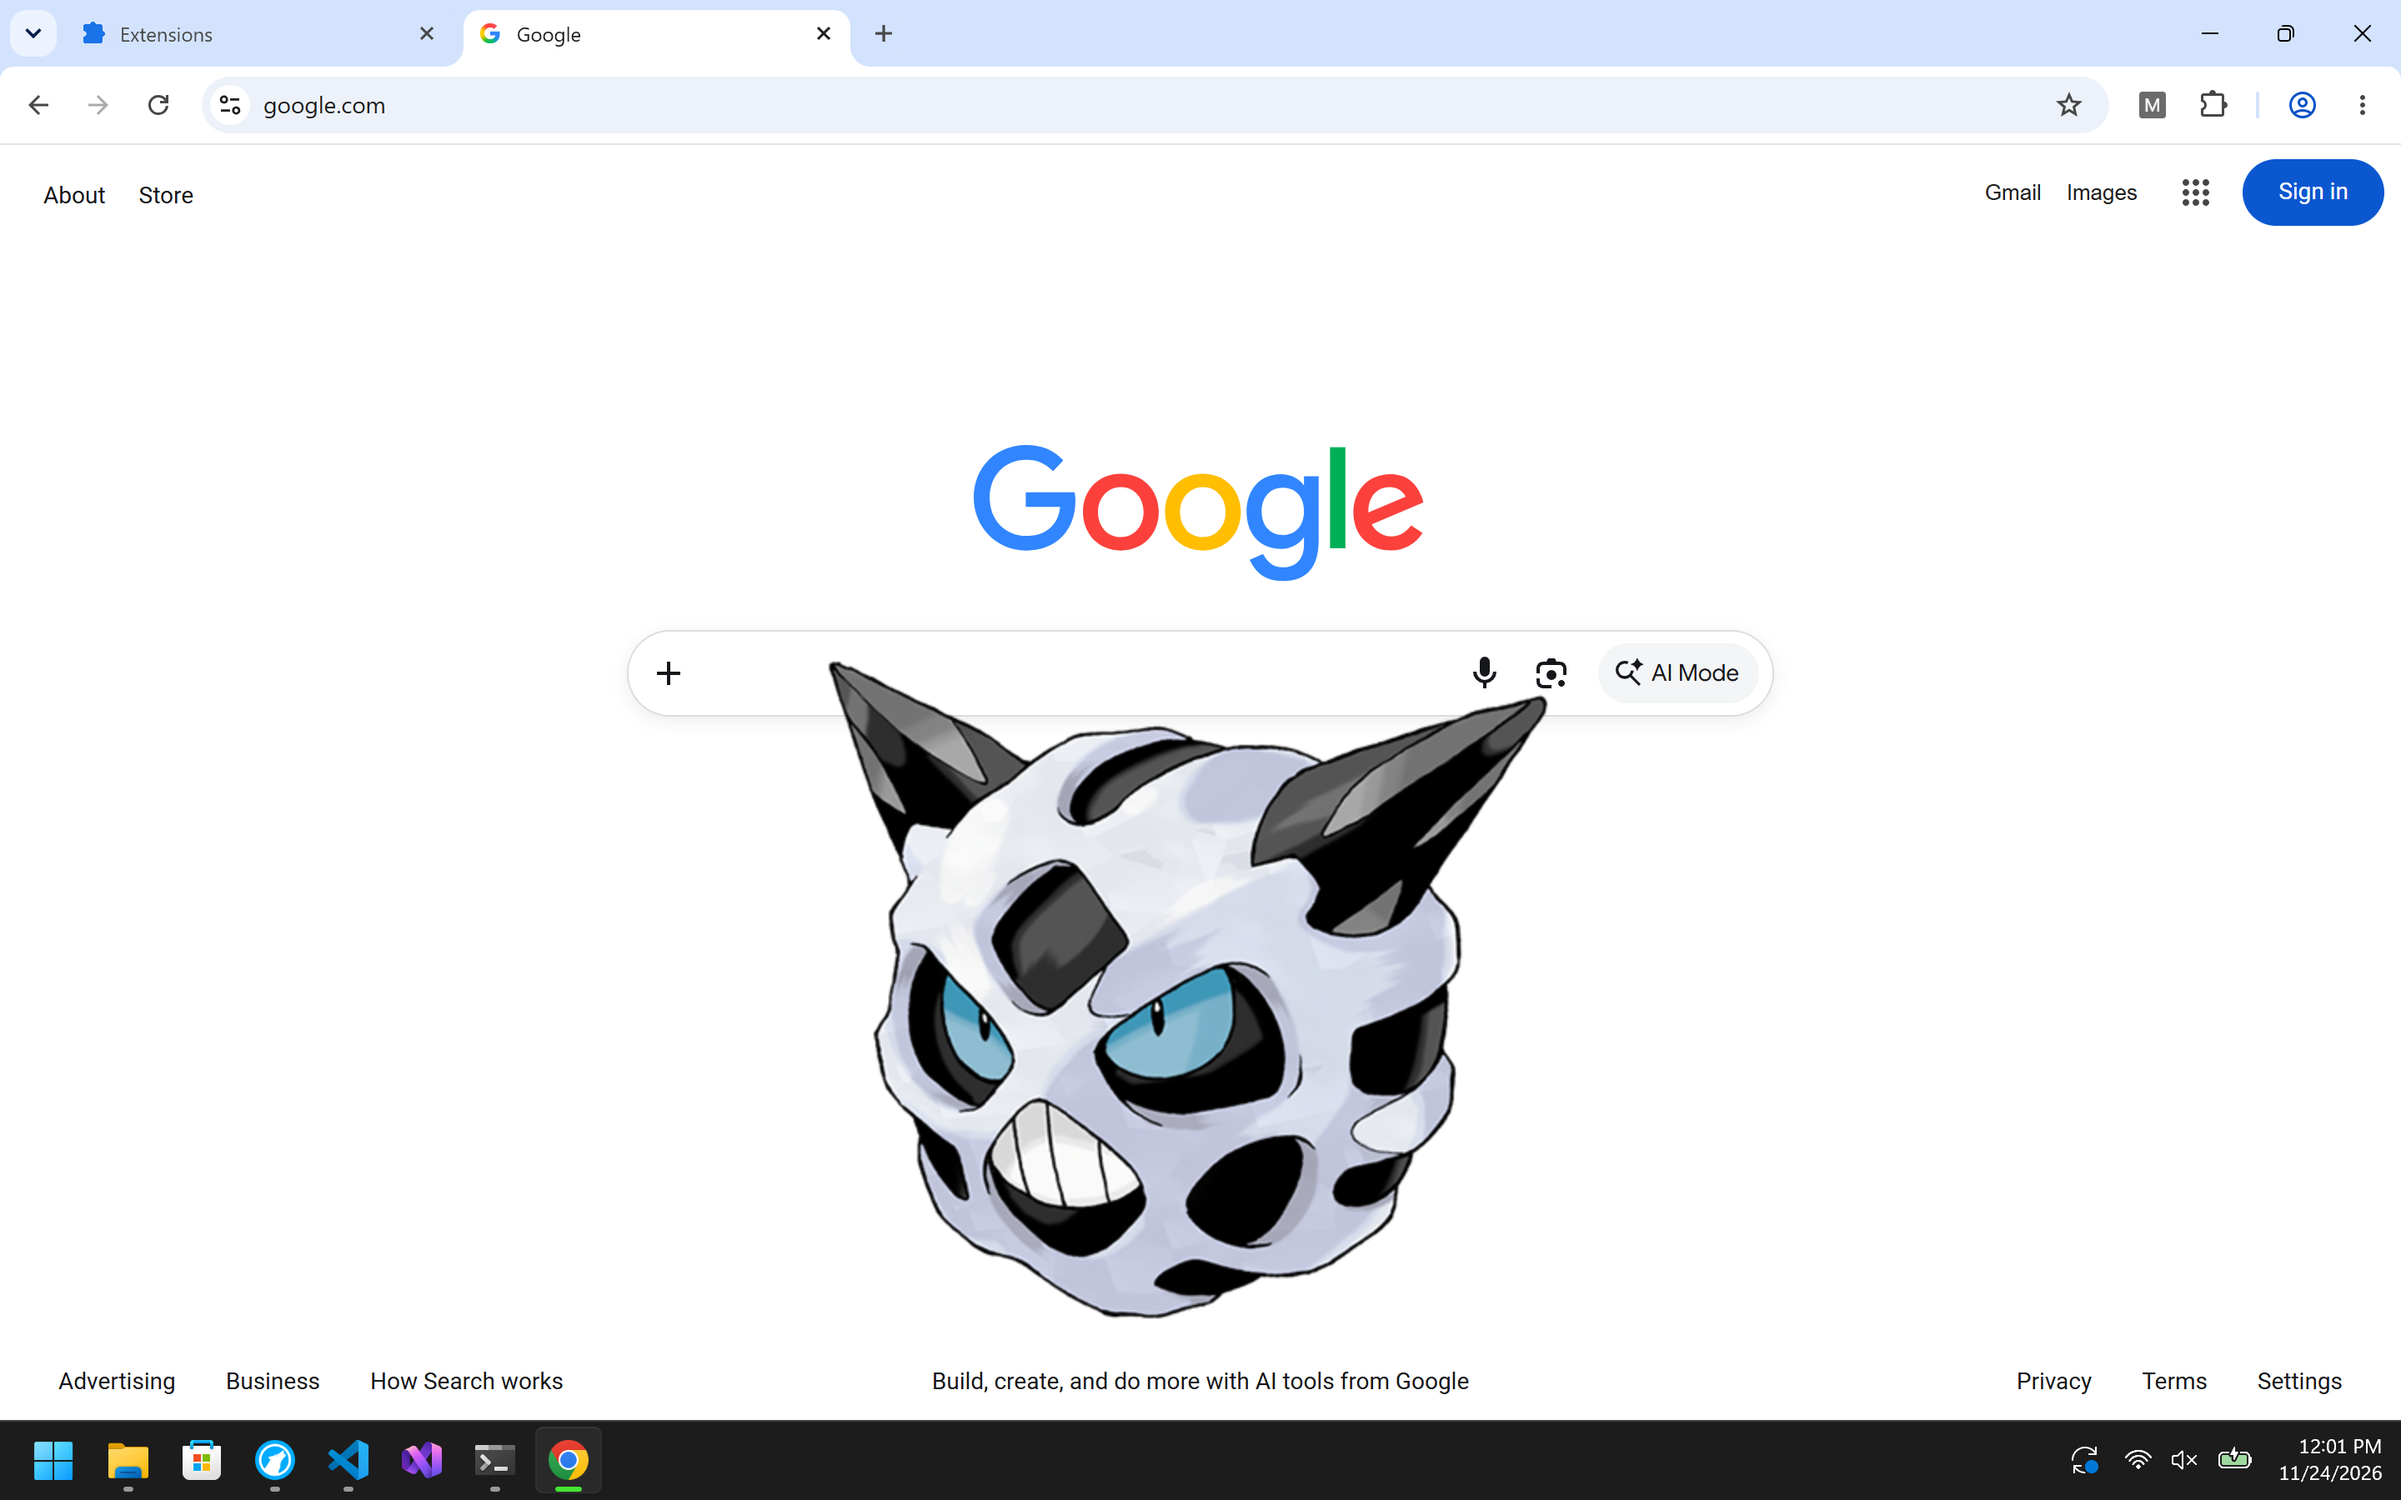
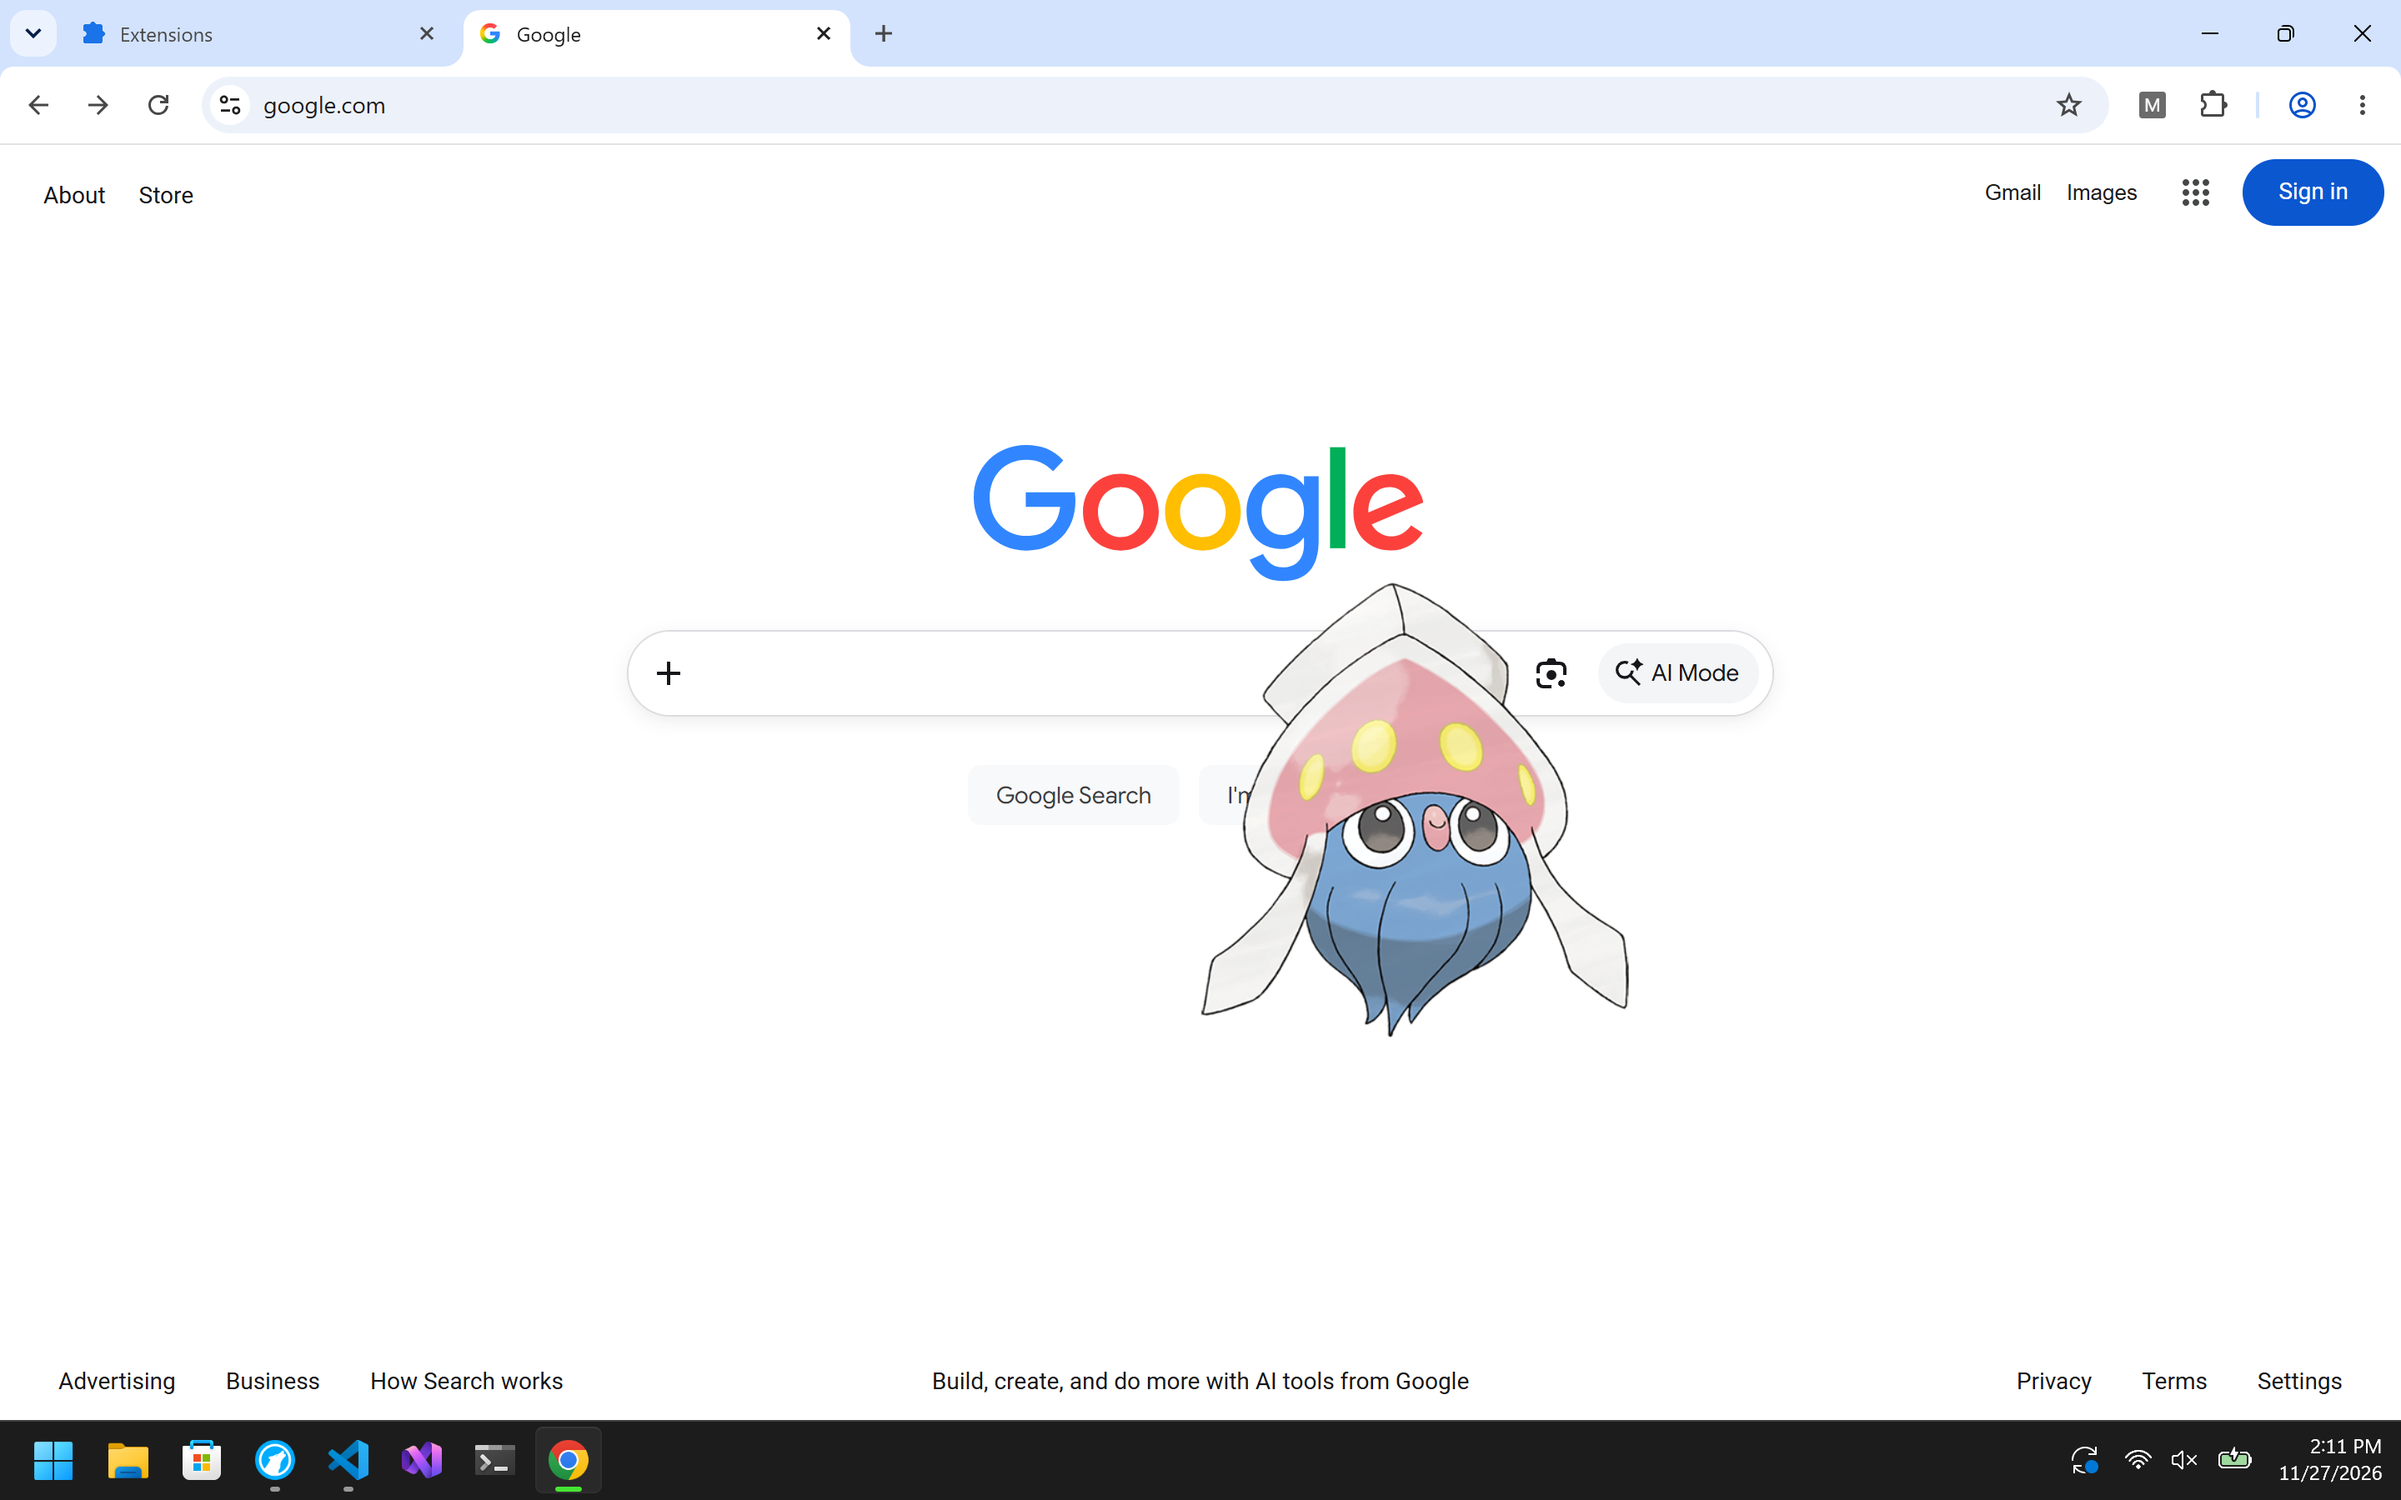
Updated documentation; teleport images

Changed region(s): [[0.3438, 0.4044, 0.6562, 0.9022]]

diff --git a/src/content-script.js b/src/content-script.js
@@ -8,6 +8,14 @@ async function getConfig(property) {
   return CONFIG[property];
 }
 
+// Teleports the image to a random location
+function teleportImage(img) {
+  let maxLeft = window.innerWidth - img.width;
+  img.style.left = `${Math.floor(Math.random() * maxLeft)}px`;
+  let maxTop = window.innerHeight - img.height;
+  img.style.top = `${Math.floor(Math.random() * maxTop)}px`;
+}
+
 async function spawnImage(src, term) {
   const image = document.createElement('img');
   image.src = src;
@@ -19,21 +27,22 @@ async function spawnImage(src, term) {
 
   image.onload = function() {
     // Wait for the image to load so we can find its dimensions
-
-    let maxLeft = window.innerWidth - this.naturalWidth;
-    this.style.left = `${Math.floor(Math.random() * maxLeft)}px`;
-    let maxTop = window.innerHeight - this.naturalHeight;
-    this.style.top = `${Math.floor(Math.random() * maxTop)}px`;
-
+    image.width = 300;
+    teleportImage(this);
     document.body.append(this);
   }
 
-  // CONFIG.IMAGE_DURATION is in seconds; we must convert it to milliseonds  
+  // CONFIG.IMAGE_DURATION is in seconds; we must convert it to milliseconds  
   let duration = await getConfig("IMAGE_DURATION") * 1000;
   const timeoutId = setTimeout(() => image.remove(), duration);
 
+  // Teleports the image to a random location
+  let numTeleports = await getConfig("NUM_TELEPORTS");
+  const intervalId = setInterval(teleportImage, duration / numTeleports, image);
+
   image.addEventListener("click", function() {
     clearTimeout(timeoutId);
+    clearInterval(intervalId);
     image.remove();
     buildForm(image, term);
   });

diff --git a/src/popup/popup.js b/src/popup/popup.js
@@ -38,6 +38,7 @@ function switchCollection(event) {
     type: 'switch-collection',
     collection: event.target.value
   })
+  curr = undefined;
   displayStats();
 }
 document.getElementById("collection-select").addEventListener("change", switchCollection)

diff --git a/src/form/form.css b/src/form/form.css
@@ -1,5 +1,5 @@
 #memorize-em-all {
-  width: 400px;
+  width: 300px;
   display: flex;
   gap: 10px;
   flex-direction: column;

diff --git a/README.md b/README.md
@@ -19,7 +19,7 @@ This extension takes a dataset of images and words corresponding with them (eith
 
   Chrome Extensions API (https://developer.chrome.com/docs/extensions/reference/api)
   
-  REST Countries API (https://restcountries.com)
+  countries.dev API (https://countries.dev/)
   
   PokéAPI (https://pokeapi.co/)
 
@@ -53,12 +53,12 @@ Create `config.json` in the `src` directory with
     "POKEMON",
     "COUNTRY_FLAGS"
   ],
-  "REST_COUNTRIES_API_KEY": <your_api_key>,
   "MIN_DELAY": 15,
   "MAX_DELAY": 20,
-  "IMAGE_DURATION": 10,
+  "IMAGE_DURATION": 5,
+  "NUM_TELEPORTS": 5,
   "FORM_DURATION": 5,
-  "DEFAULT_COLLECTION": "POKEMON",
+  "DEFAULT_COLLECTION": "POKEMON"
 }
 ```
 
@@ -85,6 +85,11 @@ Taken from [this guide](https://developer.chrome.com/docs/extensions/get-started
 
 5. Press `enter` to submit the guess and see if you're correct
 6. Press `enter` again to close the popup
+7. Click the extension icon to view statistics on your collections
+
+<img src="./docs/example-collection.png" alt="Example of a collection" width="200">
+
+8. Select a different collection in the dropdown to change the images which appear
 
 ## Roadmap
 
@@ -92,7 +97,7 @@ Taken from [this guide](https://developer.chrome.com/docs/extensions/get-started
 - [x] Display images at random intervals
 - [x] Open form when user clicks on an image
 - [x] Display an indication if response matches
-- [ ] Track and display images user has collected
+- [x] Track and display images user has collected
 - [ ] Store and include user-uploaded image-term pairs
 - [ ] Setting to adjust time between pop ups
 - [ ] Streaks, point system to buy power ups (e.g. streak freezes)
